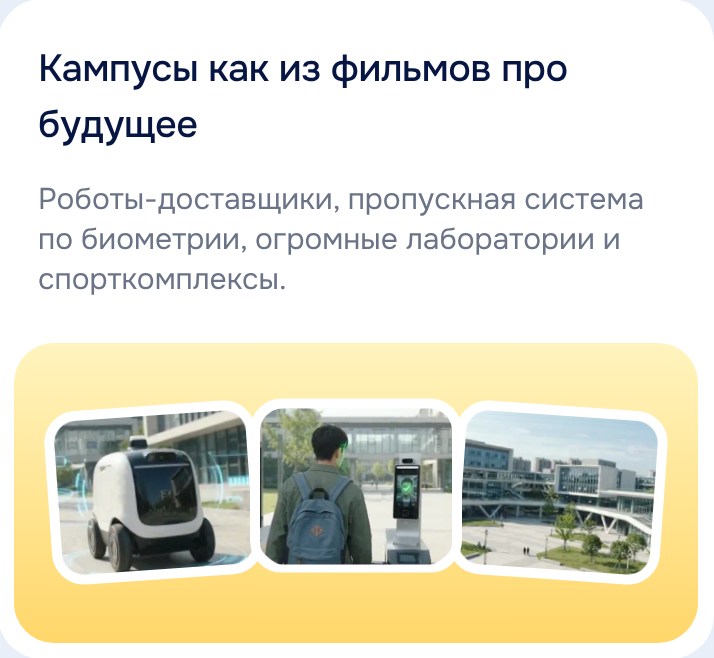
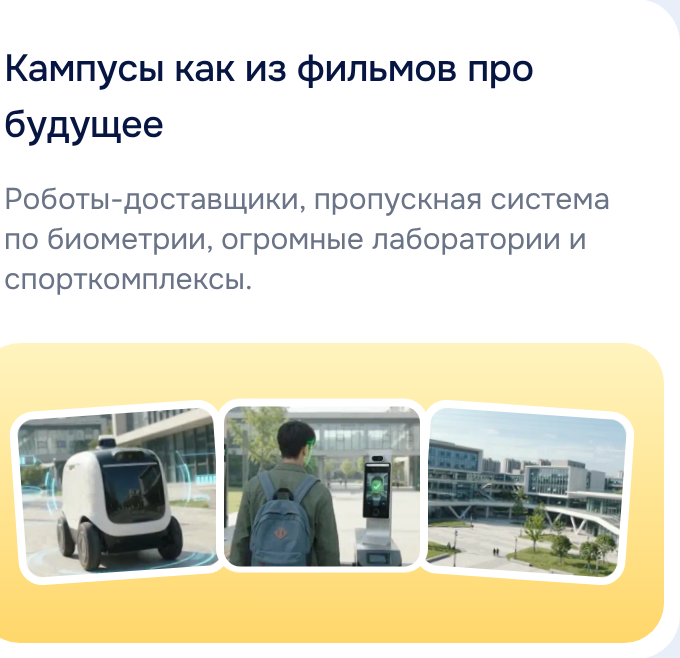
Campus clips: concentric radii
Claude-Session: https://claude.ai/code/session_01DveQThDXrjAqWsCdBVYsEN

diff --git a/index.html b/index.html
@@ -2427,6 +2427,11 @@ a.uni-card:hover{box-shadow:0 14px 34px rgba(19,52,120,.10)}
 @media (max-width:680px){.pv-img{aspect-ratio:1710/750!important}}
 
 @media (max-width:980px){.hero-card{position:relative;z-index:2;margin-top:24px!important}.hero-text .budget{position:relative;z-index:1}}
+
+/* «Кампусы»: концентричные скругления рамки и анимации */
+.cp{border-radius:16px!important;border-width:5px!important}
+.cp img,.why-card .cp img{border-radius:11px!important}
+@media (max-width:680px){.cp{border-radius:12px!important;border-width:4px!important}.cp img,.why-card .cp img{border-radius:8px!important}}
 </style>
 </head>
 <body>
